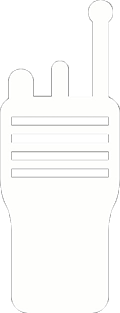
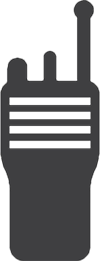
restyled walkieTalkie and fixed signalingArea error

diff --git a/public/styles.css b/public/styles.css
@@ -47,6 +47,7 @@ body {
 
 .newGame {
   cursor: pointer;
+  color: white;
   outline: none;
   background: rgba(0,0,128, .1);
   border: none;
@@ -196,13 +197,13 @@ body {
   background-image: url("/assets/walkieTalkie.png");
   background-size: contain;
   background-repeat: no-repeat;
-  width: 120px;
-  height: 300px;
+  width: 100px;
+  height: 261px;
 }
 
 #callContainer {
-  margin-top: 200px;
-  margin-left:25px;
+  margin-top: 180px;
+  margin-left: 19px;
 }
 
 #unmuteButton {
@@ -216,6 +217,75 @@ body {
   background-color: #f44336; /* Red */
   color: white;
   padding: 5px 30px;
+}
+
+/* pulsing effect for info */
+.info-data {
+  font-size: 20px;
+}
+
+.info-data div:nth-child(2) {
+  display: inline-block;
+  margin-left: 10px;
+}
+
+
+.info-data div {
+  vertical-align: middle;
+}
+
+@-webkit-keyframes pulse {
+  0% { box-shadow:0 0 8px #0BFF54, inset 0 0 8px #FFF; }
+  50% { box-shadow:0 0 16px #0BFF54, inset 0 0 14px #FFF; }
+  100% { box-shadow:0 0 8px #0BFF54, inset 0 0 8px #FFF; }
+}
+
+.glowing-circle {
+  display: inline-block;
+  width:20px;
+  height:20px;
+  border-radius:50%;
+  box-shadow: 0 0 8px #FFF, inset 0 0 8px #FFF;
+  -webkit-animation: pulse 2s linear 1s infinite;
+}
+
+/* angle input */
+.angle {
+  font-size: 20px;
+  left: 20%;
+  bottom: 7%;
+  position: absolute;
+  color: #E2F4DF;
+}
+
+.angle label {
+  margin: 7px 0;
+}
+
+.angle-arrows {
+  cursor: pointer;
+  display: block;
+  width: 25px;
+  margin-left: 115px;
+}
+
+.angle input {
+  cursor: pointer;
+  background: rgba(0,0,128, .1);
+  border: none;
+  font-size: 20px;
+  text-align: center;
+  border-radius: 50%;
+  width: 40px;
+  padding: 2px;
+  color: #E2F4DF;
+  box-shadow: 0 0 8px #FFF, inset 0 0 8px #FFF;
+  -webkit-animation: pulse 2s linear 1s infinite;
+}
+
+.angle input::-webkit-inner-spin-button {
+    -webkit-appearance: none;
+    margin: 0; /* <-- Apparently some margin are still there even though it's hidden */
 }
 
 /* right side game data */
@@ -406,73 +476,4 @@ body {
 
 #displayData {
   font-size: 20px;
-}
-
-.info-data {
-  font-size: 20px;
-}
-
-.info-data div:nth-child(2) {
-  display: inline-block;
-  margin-left: 10px;
-}
-
-
-.info-data div {
-  vertical-align: middle;
-}
-
-@-webkit-keyframes pulse {
-  0% { box-shadow:0 0 8px #0BFF54, inset 0 0 8px #FFF; }
-  50% { box-shadow:0 0 16px #0BFF54, inset 0 0 14px #FFF; }
-  100% { box-shadow:0 0 8px #0BFF54, inset 0 0 8px #FFF; }
-}
-
-.glowing-circle {
-  display: inline-block;
-  width:20px;
-  height:20px;
-  border-radius:50%;
-  box-shadow: 0 0 8px #FFF, inset 0 0 8px #FFF;
-  -webkit-animation: pulse 2s linear 1s infinite;
-}
-
-
-
-.angle {
-  font-size: 20px;
-  left: 20%;
-  bottom: 7%;
-  position: absolute;
-  color: #E2F4DF;
-}
-
-.angle label {
-  margin: 7px 0;
-}
-
-.angle-arrows {
-  cursor: pointer;
-  display: block;
-  width: 25px;
-  margin-left: 115px;
-}
-
-.angle input {
-  cursor: pointer;
-  background: rgba(0,0,128, .1);
-  border: none;
-  font-size: 20px;
-  text-align: center;
-  border-radius: 50%;
-  width: 40px;
-  padding: 2px;
-  color: #E2F4DF;
-  box-shadow: 0 0 8px #FFF, inset 0 0 8px #FFF;
-  -webkit-animation: pulse 2s linear 1s infinite;
-}
-
-.angle input::-webkit-inner-spin-button {
-    -webkit-appearance: none;
-    margin: 0; /* <-- Apparently some margin are still there even though it's hidden */
 }

diff --git a/public/dataChannel.js b/public/dataChannel.js
@@ -45,7 +45,7 @@ io = io.connect();
 
 
 //COLLECTING AUDIO FOR CHAT AND START SIGNALING
-if (singleplayer === false) {
+if (singleplayer === false && isDemo === false) {
   navigator.mediaDevices.getUserMedia({audio: true, video: false}).then(function(stream) {
     localStream = stream;
     audioTracks = localStream.getAudioTracks();
@@ -57,8 +57,7 @@ if (singleplayer === false) {
     // DIRECTIONS, to server.js
     io.emit('ready', {"signal_room": SIGNAL_ROOM });
   });
-}
-
+} else if (singleplayer === false && isDemo === true) io.emit('ready', { "signal_room": SIGNAL_ROOM })
 
 if (singleplayer === false) {
   displaySignalMessage('Waiting for other player...')
@@ -71,7 +70,9 @@ if (singleplayer === false) {
 if (singleplayer === false) io.emit('signal',{ "type": "user_here", "message": "Let's play the CopernicusGame!", "room": SIGNAL_ROOM });
 
 io.on('signaling_message', function(data) {
-  if (data.type === "user_here") displaySignalMessage('Player 2 is joining...');
+  if (data.type === "user_here") {
+    displaySignalMessage('Player 2 is joining...');
+  }
   setTimeout(transitionGameMessages, 10000);
   peerFound = true;
 
@@ -97,7 +98,7 @@ function startSignaling() {
   rtcPeerConn = new webkitRTCPeerConnection(configuration, {optional: []});
   dataChannel = rtcPeerConn.createDataChannel('gameMessages', dataChannelOptions);
 
-  rtcPeerConn.addStream(localStream);
+  if (isDemo === false) rtcPeerConn.addStream(localStream);
 
   // send any ice candidates to the other peer
   rtcPeerConn.onicecandidate = function (evt) {

diff --git a/public/divManipulation.js b/public/divManipulation.js
@@ -6,13 +6,14 @@ var signalingArea = document.querySelector("#signalingArea");
 function displaySignalMessage(message) {
   signalingArea.innerHTML = message;
 }
+
 function displayPosition(message1, message2) {
   heightArea.innerHTML = message1;
   distArea.innerHTML = message2;
 }
 
 function transitionGameMessages() {
-  signalingArea.animate({ marginTop: '80%' }, 1000);
+  $('#signalingArea').animate({ marginTop: '80%' }, 1000);
   if (singleplayer === false) $('#pointsDiv').animate({ opacity: 1 });
   if (user.myTurn === false) $('#throwBall').text("Please wait for the other player to throw!").animate({ opacity: 1 });
 }
@@ -20,8 +21,8 @@ function transitionGameMessages() {
 function updateGravityDiv(newVal) {
   $('#gravity-num').text(newVal);
   displaySignalMessage("The gravity has changed to " + newVal + "!");
-  signalingArea.animate({ marginTop: '2.48%' }, 1000);
-  signalingArea.delay(3000).animate({ marginTop: '80%' }, 1000);
+  $('#signalingArea').animate({ marginTop: '2.48%' }, 1000);
+  $('#signalingArea').delay(3000).animate({ marginTop: '80%' }, 1000);
 }
 
 function transitionTracking() {

diff --git a/views/index.html b/views/index.html
@@ -163,7 +163,7 @@
     <script type="text/javascript" src="/public/dataChannel.js"></script>
     <script type="text/javascript" src="/public/graphMotion.js"></script>
     <script type="text/javascript" src="/scene/loaderAndLoadingScreen.js"></script>
-    <script type="text/javascript" src="/public/audio.js"></script>
+    <!-- <script type="text/javascript" src="/public/audio.js"></script> -->
     <script type="text/javascript" src="/scene/ball.js"></script>
     <script type="text/javascript" src="/public/tracker.js"></script>
     <script type="text/javascript" src="/scene/target.js"></script>
